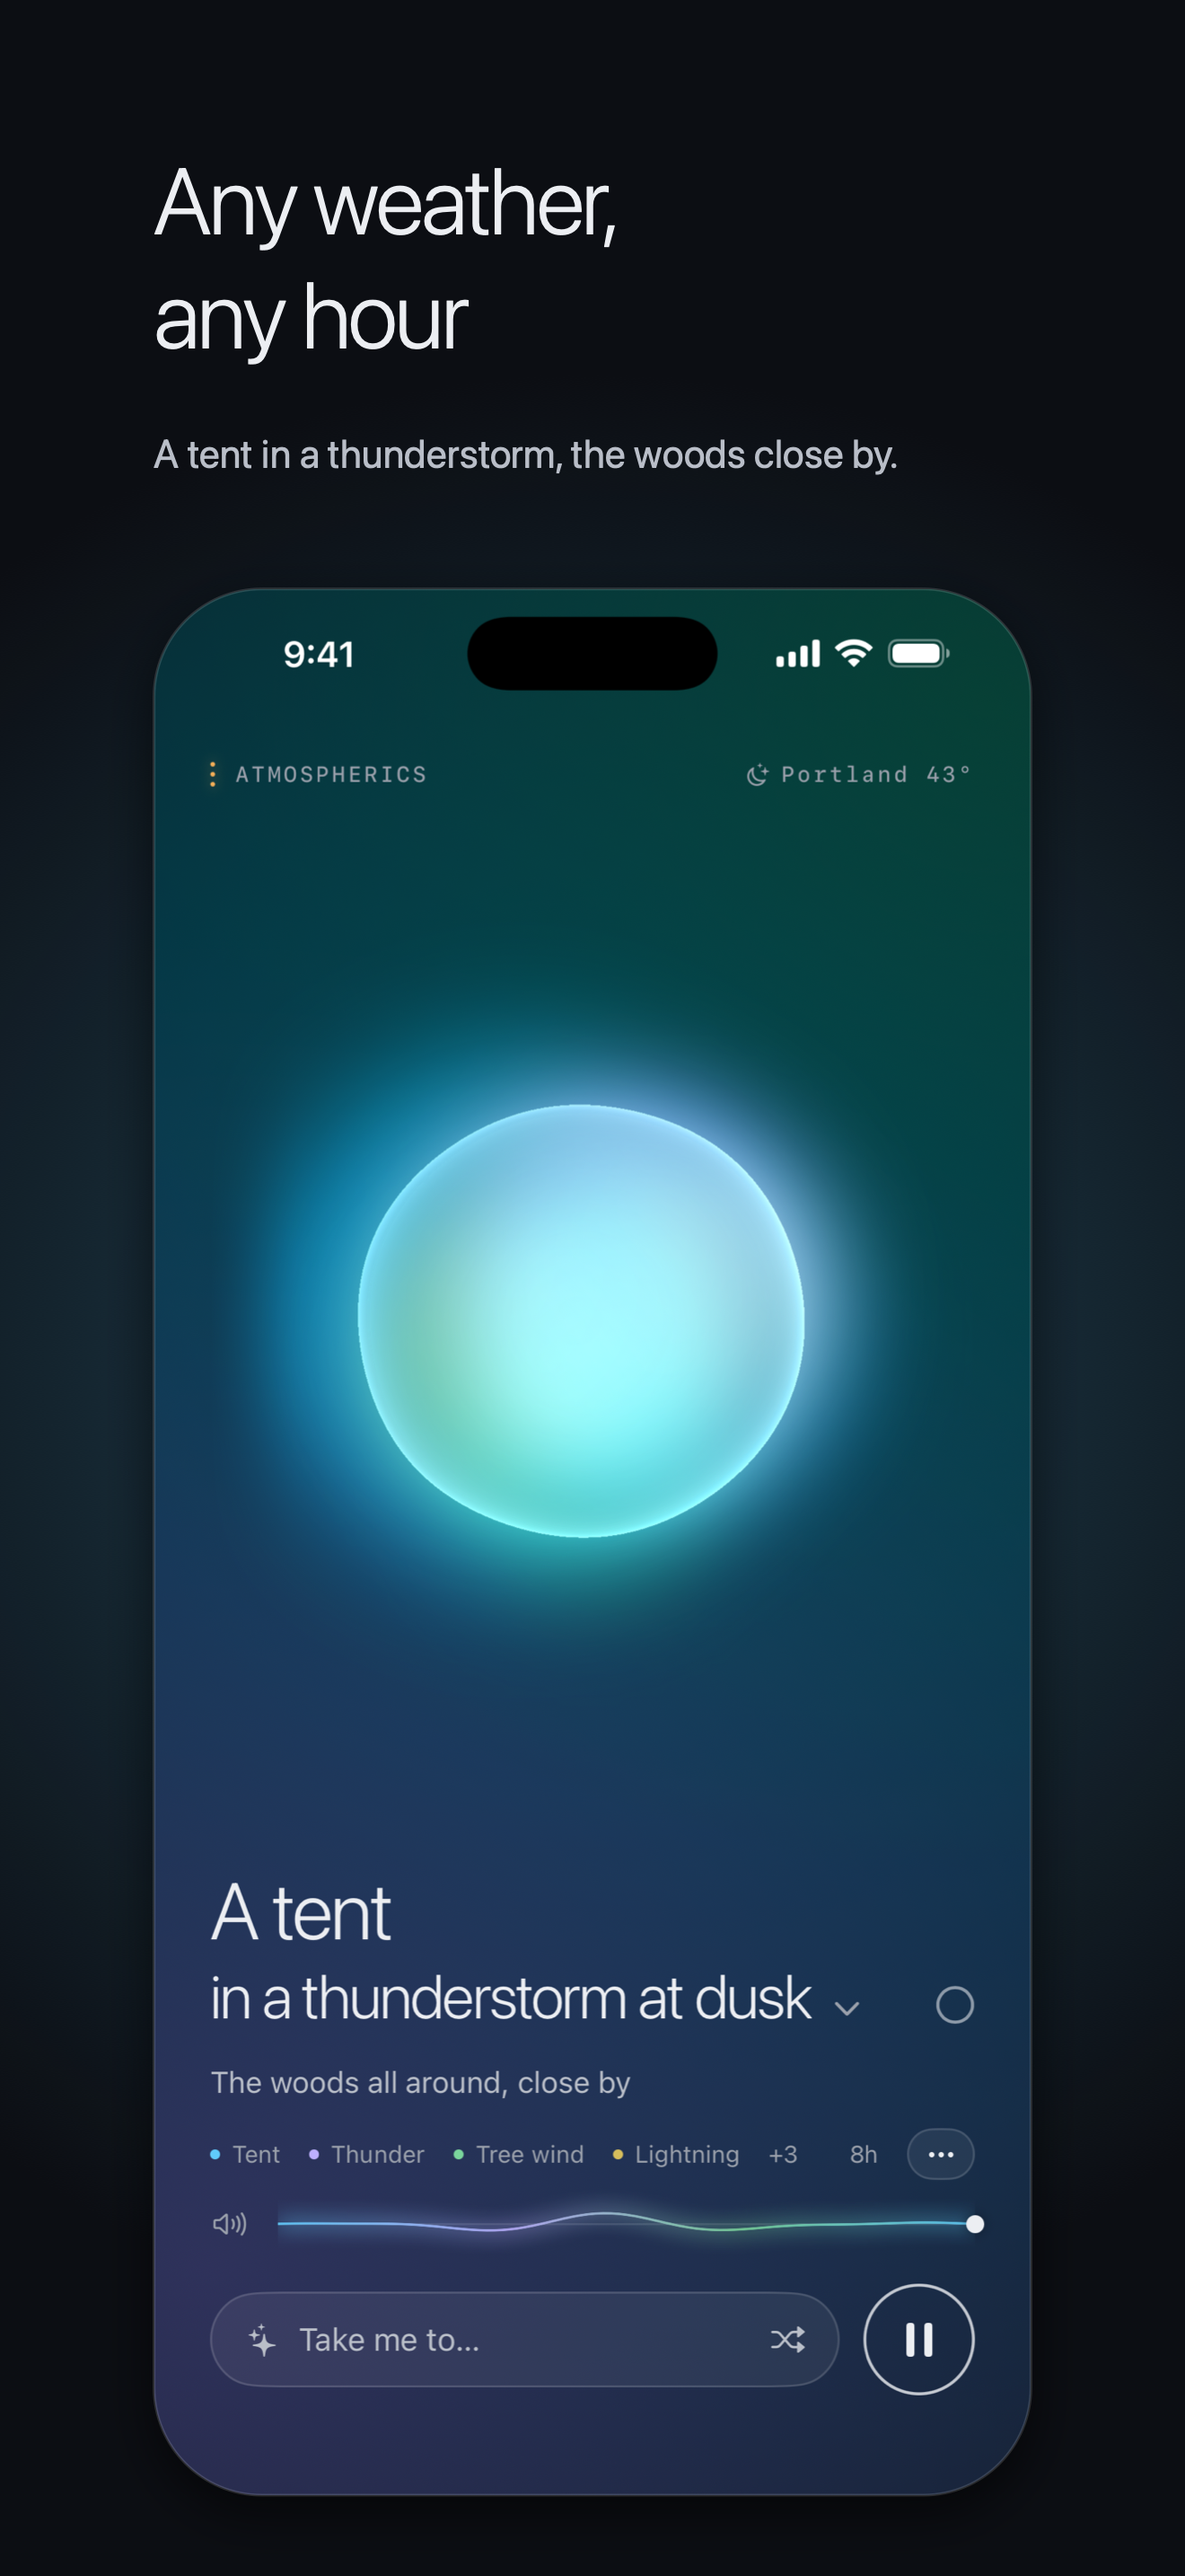
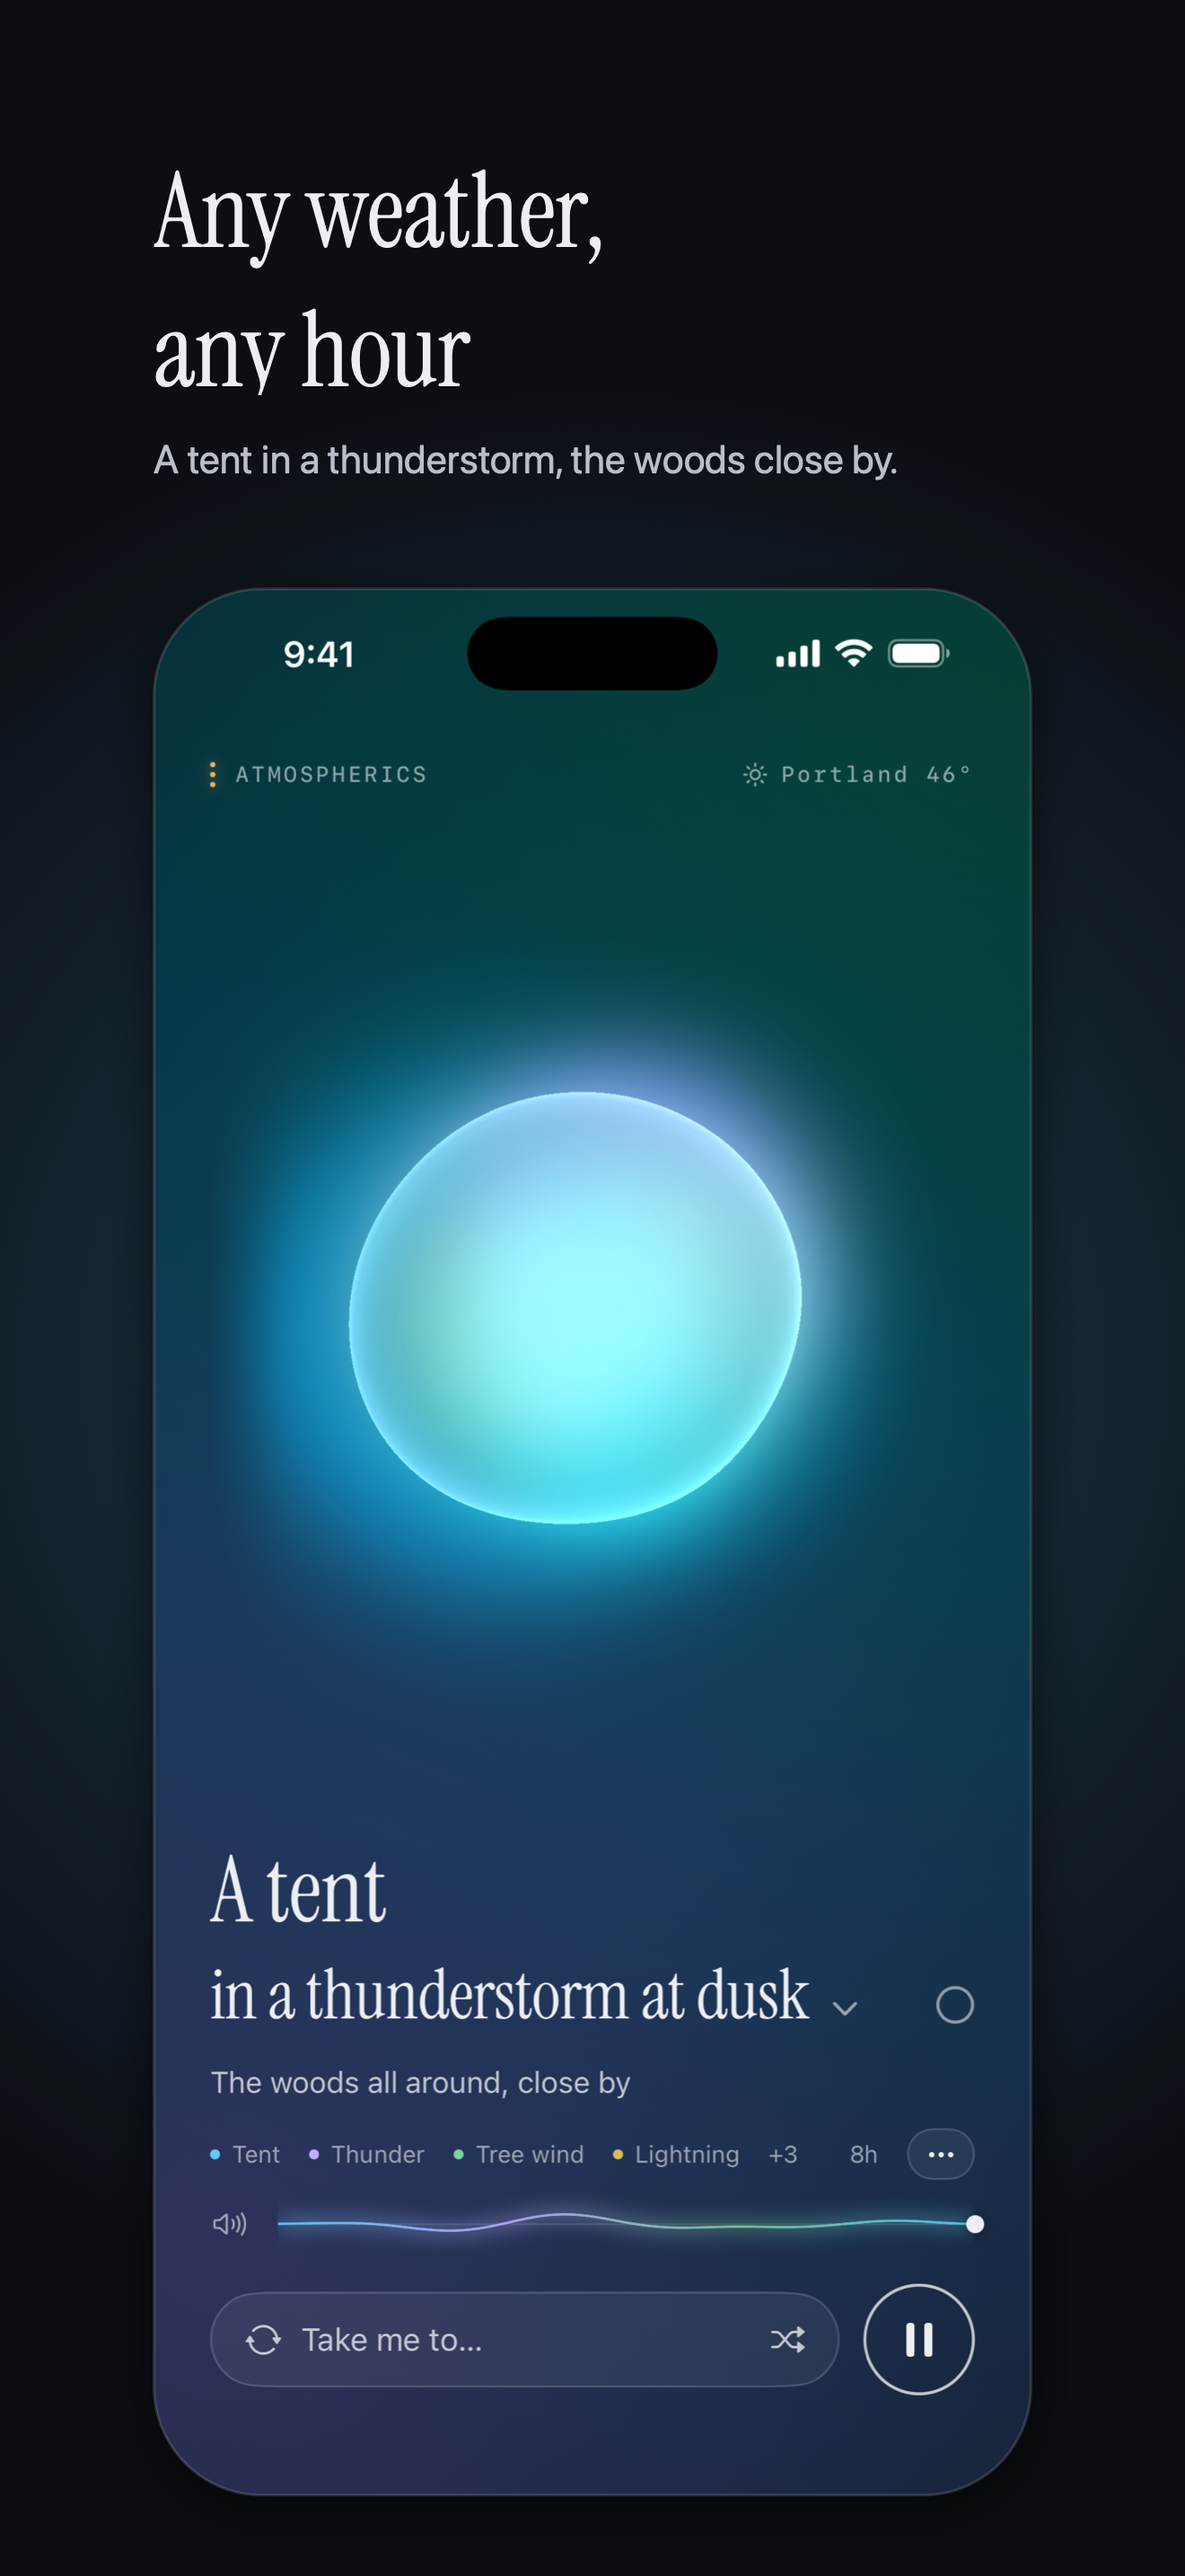
App Store screenshots for iPhone, retaken in the new look
The same six scenes with titles and names in Instrument Serif, the quieter text in the scene's color, and the update arrows on Take me to…; the captions' headlines are set in the serif too. Uploads are the flattened JPEGs in upload/ (App Store Connect rejects the framed PNGs, which have an alpha channel, as having invalid dimensions).

diff --git a/design/screenshots/compose.swift b/design/screenshots/compose.swift
@@ -7,6 +7,10 @@ import Foundation
 // Usage: swift compose.swift  (reads raw/, writes framed/)
 
 let W: CGFloat = 1320, H: CGFloat = 2868
+
+// Headlines in the app's serif, from its own font file.
+CTFontManagerRegisterFontsForURL(URL(fileURLWithPath: "../../Atmospherics/Fonts/InstrumentSerif-Regular.ttf") as CFURL, .process, nil)
+let headline = NSFont(name: "InstrumentSerif-Regular", size: 116)!
 let shots: [(file: String, title: String, sub: String, glow: NSColor)] = [
     ("1-cabin", "Teleport\nby sound", "A log cabin in a snowstorm, the fire going.", NSColor(srgbRed: 0.85, green: 0.45, blue: 0.3, alpha: 1)),
     ("2-teleport", "Take me\nanywhere", "Build a scene in a sentence, or say it.", NSColor(srgbRed: 0.75, green: 0.38, blue: 0.3, alpha: 1)),
@@ -63,9 +67,9 @@ for shot in shots {
     let para = NSMutableParagraphStyle()
     para.lineSpacing = 4
     let title = NSAttributedString(string: shot.title, attributes: [
-        .font: NSFont.systemFont(ofSize: 104, weight: .light),
+        .font: headline,
         .foregroundColor: NSColor(srgbRed: 0.925, green: 0.933, blue: 0.95, alpha: 1),
-        .kern: -2.5, .paragraphStyle: para,
+        .kern: -0.6, .paragraphStyle: para,
     ])
     let left = screen.minX
     // The subline at 44 pt, smaller if it would run past the screen's width.
@@ -77,9 +81,9 @@ for shot in shots {
     }
     var sub = subline(44)
     if sub.size().width > W - left * 2 { sub = subline(44 * (W - left * 2) / sub.size().width) }
-    let titleRect = CGRect(x: left, y: H - 160 - 260, width: W - left * 2, height: 260)
+    let titleRect = CGRect(x: left, y: H - 160 - 280, width: W - left * 2, height: 280)
     title.draw(with: titleRect, options: [.usesLineFragmentOrigin])
-    sub.draw(at: CGPoint(x: left, y: titleRect.minY - 110))
+    sub.draw(at: CGPoint(x: left, y: titleRect.minY - 96))
 
     NSGraphicsContext.restoreGraphicsState()
     let png = rep.representation(using: .png, properties: [:])!
